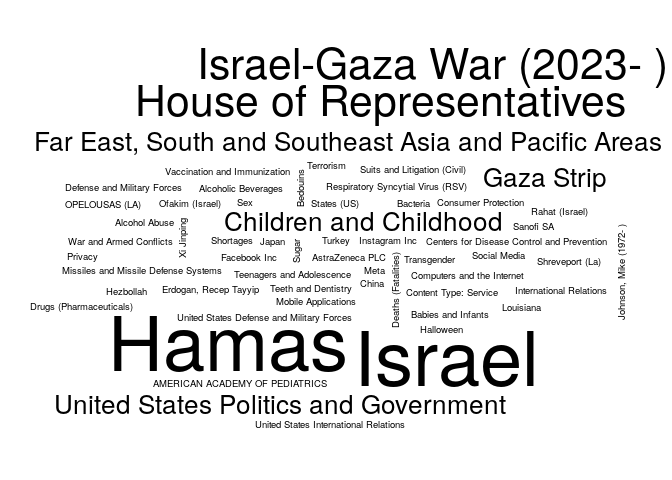
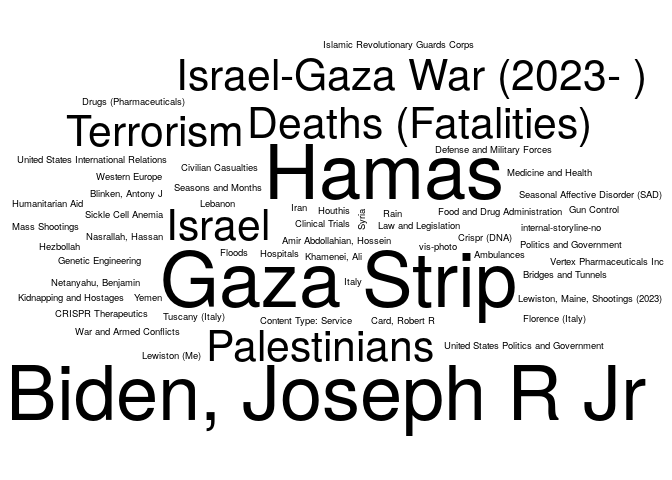
Updating the NYT report

Changed region(s): [[0.0, 0.0625, 1.0, 0.9062]]

diff --git a/03-nytimes/README.md b/03-nytimes/README.md
@@ -5,7 +5,7 @@ The following is an example of how to use the [NYTimes
 API](https://developer.nytimes.com/) to get a list of articles related
 to a particular term. Here we are searching articles that include the
 term `"health"`, and that were published up to seven days ago since
-2023-10-30.
+2023-11-06.
 
 ``` r
 # Preparing a function to use the GET method with the NYTimes API
@@ -83,25 +83,25 @@ colnames(tab) <- c("Keyword", "# Articles")
 knitr::kable(tab, row.names = FALSE)
 ```
 
-| Keyword                                              | \# Articles |
-|:-----------------------------------------------------|------------:|
-| Hamas                                                |          25 |
-| Israel                                               |          25 |
-| House of Representatives                             |          15 |
-| Israel-Gaza War (2023- )                             |          15 |
-| Children and Childhood                               |          10 |
-| Far East, South and Southeast Asia and Pacific Areas |          10 |
-| Gaza Strip                                           |          10 |
-| United States Politics and Government                |          10 |
-| Alcohol Abuse                                        |           5 |
-| Alcoholic Beverages                                  |           5 |
-| AMERICAN ACADEMY OF PEDIATRICS                       |           5 |
-| AstraZeneca PLC                                      |           5 |
-| Babies and Infants                                   |           5 |
-| Bacteria                                             |           5 |
-| Bedouins                                             |           5 |
-| Centers for Disease Control and Prevention           |           5 |
-| China                                                |           5 |
-| Computers and the Internet                           |           5 |
-| Consumer Protection                                  |           5 |
-| Content Type: Service                                |           5 |
+| Keyword                     | \# Articles |
+|:----------------------------|------------:|
+| Biden, Joseph R Jr          |          15 |
+| Gaza Strip                  |          15 |
+| Hamas                       |          15 |
+| Deaths (Fatalities)         |          10 |
+| Israel                      |          10 |
+| Israel-Gaza War (2023- )    |          10 |
+| Palestinians                |          10 |
+| Terrorism                   |          10 |
+| Ambulances                  |           5 |
+| Amir Abdollahian, Hossein   |           5 |
+| Blinken, Antony J           |           5 |
+| Bridges and Tunnels         |           5 |
+| Card, Robert R              |           5 |
+| Civilian Casualties         |           5 |
+| Clinical Trials             |           5 |
+| Content Type: Service       |           5 |
+| Crispr (DNA)                |           5 |
+| CRISPR Therapeutics         |           5 |
+| Defense and Military Forces |           5 |
+| Drugs (Pharmaceuticals)     |           5 |
